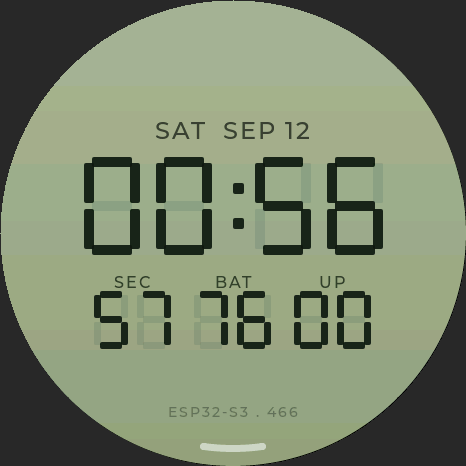
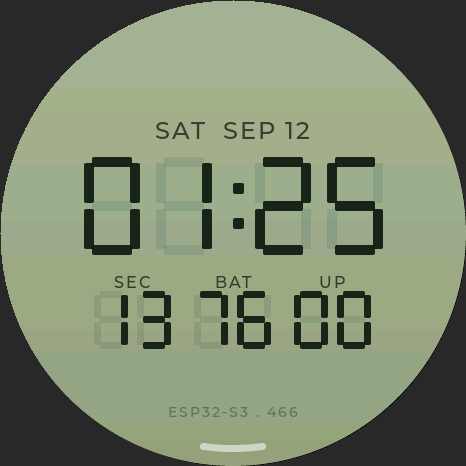
Draw a night sky for the home wallpaper
A flat deep-black disc with about 360 stars, crowded along a diagonal so the
milky way reads without anything being drawn for it. One object, drawn in
LV_EVENT_DRAW_MAIN — one object per star would be past seventy children and
lv_timer_handler() would stop coming back.

Two things were tried and rejected, both recorded in the source: a vertical
gradient crosses five RGB565 blue steps over 466 rows and each one is a hard
line across the middle of the screen, and a glow built from concentric circles
shows the circles as rings at any opacity you can actually see. Flat costs the
least on an AMOLED anyway.

Also removes a duplicated #include <math.h> in launcher.c.

diff --git a/main/nightsky.c b/main/nightsky.c
@@ -1,0 +1,133 @@
+/* The night sky. See nightsky.h for why this is drawn and not a picture. */
+#include "nightsky.h"
+
+#define SCR   466
+#define CX    233
+#define CY    233
+
+/* ── the stars ────────────────────────────────────────────────
+ * Positions come from a hash rather than a table, so a few hundred stars cost
+ * no flash at all. The same seed gives the same sky every boot — a wallpaper
+ * that rearranges itself when you turn the page would be unsettling. */
+static uint32_t hash(uint32_t x)
+{
+    x ^= x >> 16; x *= 0x7feb352du;
+    x ^= x >> 15; x *= 0x846ca68bu;
+    return x ^ (x >> 16);
+}
+
+#define STARS      210     /* over the whole disc */
+#define HAZE_STARS 150     /* the extra ones crowding the milky way */
+
+/* The milky way runs corner to corner. A band, not a line: stars scatter
+ * around it and thin out with distance. */
+#define BAND_DX    0.64f   /* unit vector along the band */
+#define BAND_DY   -0.77f
+
+static void sky_draw(lv_event_t *e)
+{
+    lv_obj_t   *o     = lv_event_get_target(e);
+    lv_layer_t *layer = lv_event_get_layer(e);
+
+    lv_area_t box;
+    lv_obj_get_coords(o, &box);
+    const int ox = box.x1, oy = box.y1;
+
+    lv_draw_rect_dsc_t d;
+
+    /* 🚨 The milky way was three soft ellipses laid along the band. Every one
+     * of them is drawn upright, so together they read as a horizontal smear
+     * across the middle of the screen — a seam, not a galaxy. It is crowded
+     * dim stars instead, which fall on the diagonal because their positions
+     * do. */
+
+    for (int i = 0; i < STARS + HAZE_STARS; i++) {
+        uint32_t h  = hash((uint32_t)i * 2654435761u + 12345u);
+        uint32_t h2 = hash(h);
+
+        int x, y;
+        if (i < STARS) {
+            x = (int)(h  % SCR);
+            y = (int)(h2 % SCR);
+        } else {
+            /* Crowded onto the band: a long step along it, a short one across */
+            float along  = ((float)(h  % 1000) / 1000.0f - 0.5f) * 520.0f;
+            float across = ((float)(h2 % 1000) / 1000.0f - 0.5f) * 108.0f;
+            across *= (float)(h2 % 7 + 1) / 7.0f;   /* crowded at the spine, thin at the edges */
+            x = CX + (int)(BAND_DX * along - BAND_DY * across);
+            y = CY + (int)(BAND_DY * along + BAND_DX * across);
+        }
+
+        /* Anything outside the round screen is wasted drawing */
+        int dx = x - CX, dy = y - CY;
+        if (dx * dx + dy * dy > 232 * 232) continue;
+
+        uint32_t h3 = hash(h2 ^ 0x9E3779B9u);
+        int      r  = (int)(h3 % 100);
+
+        /* Mostly faint. A sky of equally bright dots reads as noise, not sky. */
+        int size, opa;
+        if      (r < 62) { size = 1; opa =  50 + (int)(h3 >> 8) % 60; }
+        else if (r < 90) { size = 1; opa = 130 + (int)(h3 >> 8) % 70; }
+        else             { size = 2; opa = 210 + (int)(h3 >> 8) % 45; }
+        if (i >= STARS) opa = opa * 3 / 5;      /* the band's own stars are dimmer */
+
+        /* A few warm, a few cool, the rest white. Real skies are not monochrome. */
+        uint32_t col = 0xFFFFFF;
+        switch ((h3 >> 16) % 12) {
+        case 0: case 1: col = 0xFFE3C0; break;   /* warm */
+        case 2:         col = 0xFFCF9E; break;
+        case 3: case 4: col = 0xCFE0FF; break;   /* cool */
+        default: break;
+        }
+
+        lv_draw_rect_dsc_init(&d);
+        d.radius   = LV_RADIUS_CIRCLE;
+        d.bg_color = lv_color_hex(col);
+        d.bg_opa   = (lv_opa_t)(opa > 255 ? 255 : opa);
+        lv_area_t a = { ox + x, oy + y, ox + x + size, oy + y + size };
+        lv_draw_rect(layer, &d, &a);
+
+        /* The brightest few get a halo, which is what sells them as bright */
+        if (size == 2 && (h3 >> 24) % 3 == 0) {
+            lv_draw_rect_dsc_init(&d);
+            d.radius   = LV_RADIUS_CIRCLE;
+            d.bg_color = lv_color_hex(col);
+            d.bg_opa   = 40;
+            lv_area_t g = { ox + x - 3, oy + y - 3, ox + x + size + 3, oy + y + size + 3 };
+            lv_draw_rect(layer, &d, &g);
+        }
+    }
+}
+
+lv_obj_t *nightsky_create(lv_obj_t *parent)
+{
+    lv_obj_t *o = lv_obj_create(parent);
+    lv_obj_remove_style_all(o);
+    lv_obj_remove_flag(o, LV_OBJ_FLAG_SCROLLABLE);
+    /* 🚨 lv_obj_create() is clickable by default. Left that way the wallpaper
+     * is the pressed object for every swipe on the bare background, the screen
+     * never sees the gesture, and the home pages stop turning. */
+    lv_obj_remove_flag(o, LV_OBJ_FLAG_CLICKABLE);
+    lv_obj_set_size(o, SCR, SCR);
+    lv_obj_center(o);
+    lv_obj_set_style_radius(o, LV_RADIUS_CIRCLE, 0);
+
+    /* 🚨 Flat, not a gradient. The panel is RGB565, so blue moves in 32 steps
+     * across 466 rows — a gradient from 0x02040C to 0x0B1330 crosses five of
+     * them and each crossing is a hard horizontal line through the middle of
+     * the wallpaper. Depth comes from where the stars are instead, which costs
+     * nothing and cannot band.
+     *
+     * A soft glow low down was tried instead, built from concentric circles so
+     * that any banding would follow the curve of the screen rather than cut
+     * across it. At an opacity you could actually see, the circles themselves
+     * became visible as rings. Flat is better than nearly-flat with rings.
+     *
+     * Near-black is also the cheapest thing an AMOLED can show. */
+    lv_obj_set_style_bg_opa(o, LV_OPA_COVER, 0);
+    lv_obj_set_style_bg_color(o, lv_color_hex(0x03050E), 0);
+
+    lv_obj_add_event_cb(o, sky_draw, LV_EVENT_DRAW_MAIN, NULL);
+    return o;
+}

diff --git a/main/launcher.c b/main/launcher.c
@@ -2,7 +2,7 @@
 #include "port.h"
 #include "display.h"
 #include "assets/assets.h"
-#include <math.h>
+#include "nightsky.h"
 #include <math.h>
 
 static const char *TAG = "launcher";
@@ -537,24 +537,8 @@ static void build_home(void)
     lv_obj_set_style_bg_color(s_home, lv_color_black(), 0);
     lv_obj_set_style_bg_opa(s_home, LV_OPA_COVER, 0);
 
-    /* The wallpaper is drawn, not stored. A full-screen 466x466 picture costs
-     * 424 KB of flash and this board has 890 KB of headroom left; a gradient
-     * costs nothing and reads the same behind a ring of icons. */
-    lv_obj_t *wall = lv_obj_create(s_home);
-    lv_obj_remove_style_all(wall);
-    lv_obj_remove_flag(wall, LV_OBJ_FLAG_SCROLLABLE);
-    /* 🚨 lv_obj_create() is clickable by default, unlike the image this used to
-     * be. Left that way the wallpaper is the pressed object for every swipe on
-     * the bare background, the screen never sees the gesture, and the page
-     * stops turning. */
-    lv_obj_remove_flag(wall, LV_OBJ_FLAG_CLICKABLE);
-    lv_obj_set_size(wall, 466, 466);
-    lv_obj_center(wall);
-    lv_obj_set_style_radius(wall, LV_RADIUS_CIRCLE, 0);
-    lv_obj_set_style_bg_opa(wall, LV_OPA_COVER, 0);
-    lv_obj_set_style_bg_color(wall, lv_color_hex(0x101822), 0);
-    lv_obj_set_style_bg_grad_color(wall, lv_color_hex(0x000000), 0);
-    lv_obj_set_style_bg_grad_dir(wall, LV_GRAD_DIR_VER, 0);
+    /* The wallpaper is drawn, not stored — see nightsky.h. */
+    nightsky_create(s_home);
 
     /* Apps 120 degrees apart. The icons are the app's own screen shrunk down,
      * which says what it is far faster than a glyph. */

diff --git a/main/nightsky.h b/main/nightsky.h
@@ -1,0 +1,20 @@
+/* The home wallpaper: a night sky, drawn rather than stored.
+ *
+ * 🚨 It is code and not a photograph for two reasons. A 466x466 picture is
+ * 424 KB of flash, and a photograph someone else took is a licence you have to
+ * be able to name — this repository ships no third-party artwork, and the
+ * planet maps were taken out for exactly that reason.
+ *
+ * 🚨 One object, drawn in LV_EVENT_DRAW_MAIN. Not one object per star: past
+ * about seventy children lv_timer_handler() stops coming back and the screen
+ * freezes with the CPU pinned. That was learnt the hard way on the clock face.
+ *
+ * An AMOLED draws no current for a black pixel, so a sky that is mostly black
+ * with a few hundred lit points is close to free. */
+#pragma once
+#include "lvgl.h"
+
+/* Builds the wallpaper as a child of parent, sized to the screen. It is not
+ * clickable — left clickable it becomes the pressed object for every swipe on
+ * the bare background and the home pages stop turning. */
+lv_obj_t *nightsky_create(lv_obj_t *parent);
